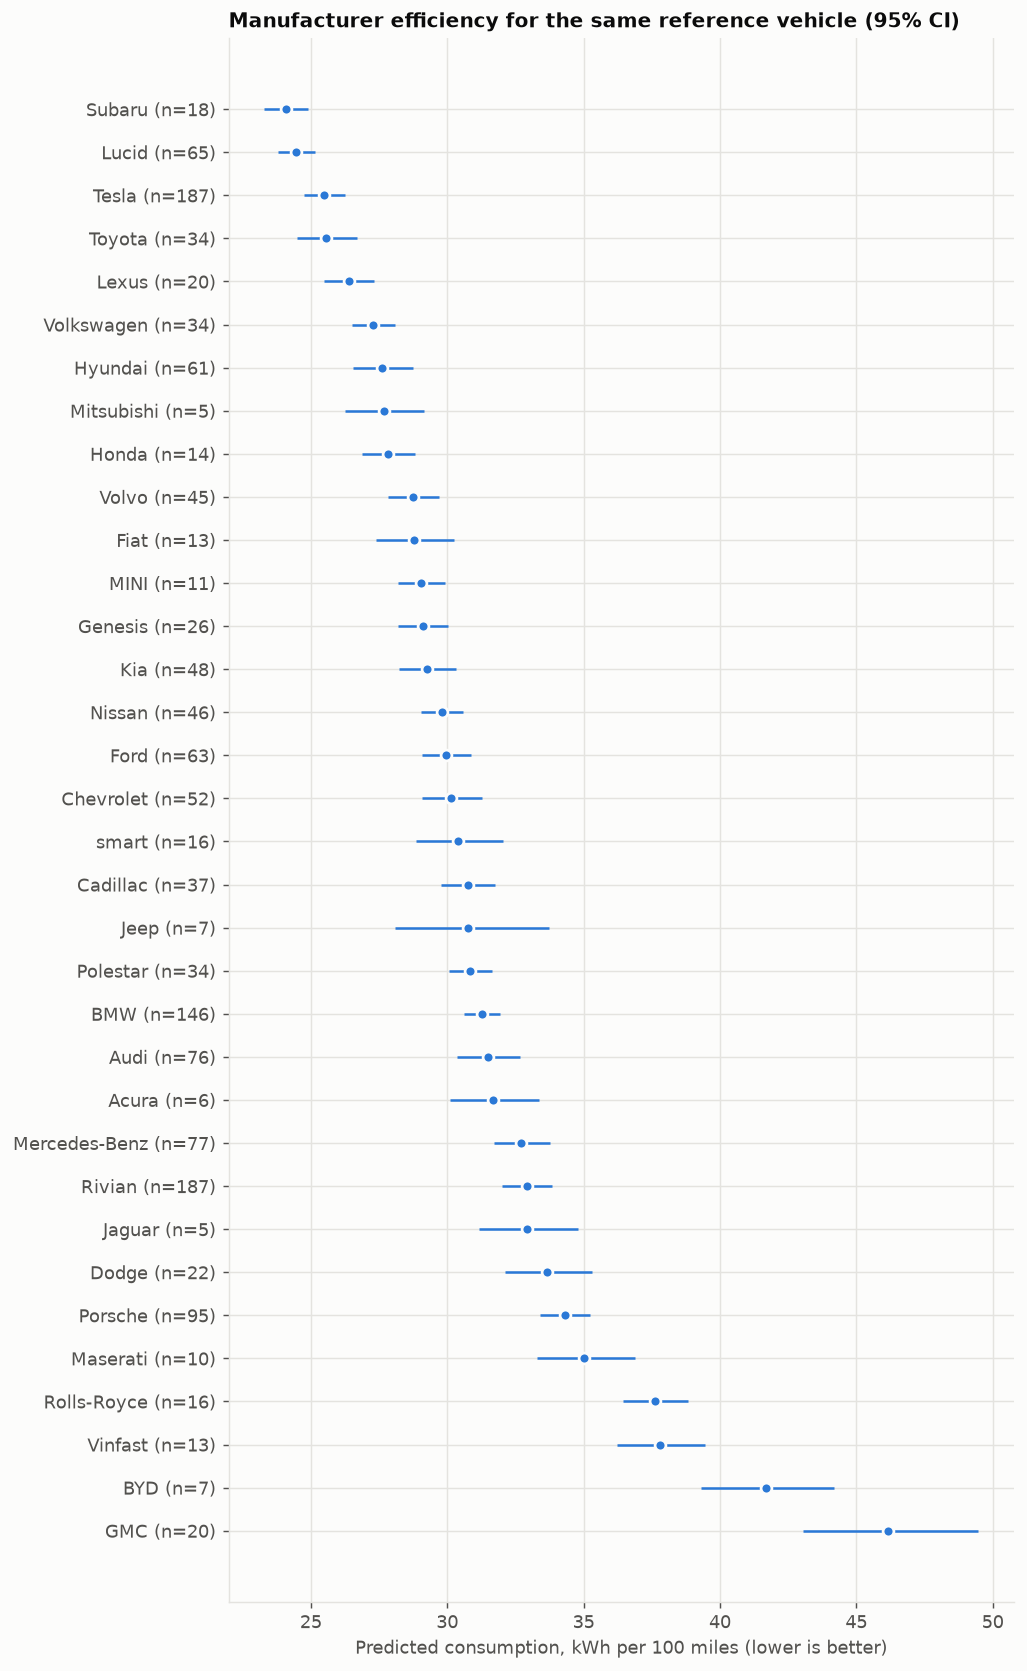
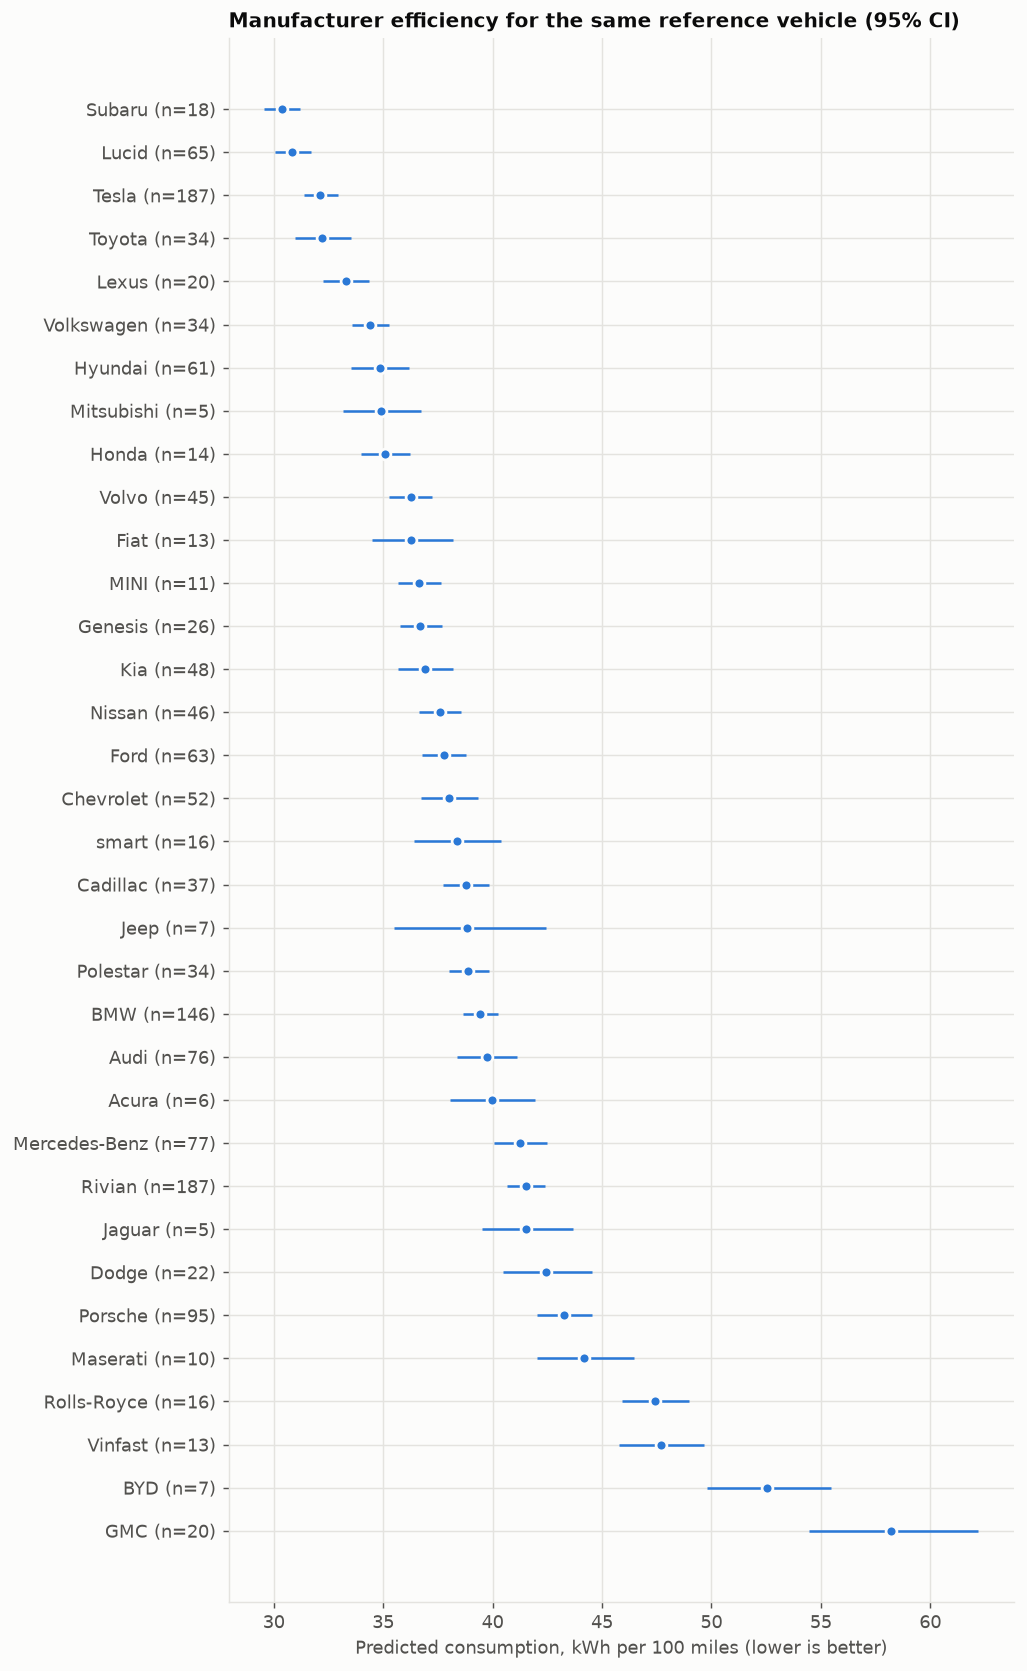
Refresh EPA data and results

diff --git a/docs/results.md b/docs/results.md
@@ -6,7 +6,7 @@ Data: 1,585 battery-electric vehicle configurations from 42 manufacturers, model
 2. The derived energy per charge passes a sanity check. For the 56 configurations whose battery size EPA lists, the stated capacity is a median 0.89 times the energy drawn from the wall, consistent with charging losses of about 11%.
 3. The share of SUVs and pickups among EV configurations went from 14% to 69%. In the regression below an SUV uses 6% more energy per mile than a car of the same model year and motor power, so the shift towards SUVs pushes average consumption up.
 4. EVs reverse the usual city/highway pattern. The median EV's highway efficiency is 0.89 times its city efficiency, against 1.37 for gasoline cars. 99.6% of gasoline cars but only 15% of EVs are more efficient on the highway.
-5. For the same reference vehicle (two-wheel-drive car, median motor power, model year 2027), predicted consumption ranges from 24.1 kWh/100 mi (Subaru) to 46.1 kWh/100 mi (GMC).
+5. For the same reference vehicle (two-wheel-drive car, median motor power, model year 2027), predicted consumption ranges from 30.4 kWh/100 mi (Subaru) to 58.2 kWh/100 mi (GMC).
 6. On model lines the models had never seen, Gradient boosting had the lowest error (MAE 3.32 kWh/100 mi, 9.1% of the true value), 37% below the class-median baseline.
 
 #### Explanatory regression: log consumption (HC3 robust standard errors)
@@ -74,40 +74,40 @@ n = 1530, R² = 0.34
 
 | make          |   consumption |   ci_low |   ci_high |   n |
 |:--------------|--------------:|---------:|----------:|----:|
-| Subaru        |         24.08 |    23.29 |     24.89 |  18 |
-| Lucid         |         24.46 |    23.81 |     25.14 |  65 |
-| Tesla         |         25.48 |    24.74 |     26.24 | 187 |
-| Toyota        |         25.55 |    24.48 |     26.67 |  34 |
-| Lexus         |         26.39 |    25.48 |     27.33 |  20 |
-| Volkswagen    |         27.29 |    26.51 |     28.08 |  34 |
-| Hyundai       |         27.62 |    26.55 |     28.74 |  61 |
-| Mitsubishi    |         27.67 |    26.27 |     29.15 |   5 |
-| Honda         |         27.83 |    26.86 |     28.83 |  14 |
-| Volvo         |         28.74 |    27.83 |     29.68 |  45 |
-| Fiat          |         28.77 |    27.38 |     30.24 |  13 |
-| MINI          |         29.05 |    28.21 |     29.92 |  11 |
-| Genesis       |         29.1  |    28.19 |     30.04 |  26 |
-| Kia           |         29.27 |    28.24 |     30.33 |  48 |
-| Nissan        |         29.8  |    29.04 |     30.59 |  46 |
-| Ford          |         29.95 |    29.06 |     30.87 |  63 |
-| Chevrolet     |         30.15 |    29.08 |     31.26 |  52 |
-| smart         |         30.41 |    28.87 |     32.03 |  16 |
-| Cadillac      |         30.75 |    29.79 |     31.75 |  37 |
-| Jeep          |         30.77 |    28.07 |     33.74 |   7 |
-| Polestar      |         30.84 |    30.05 |     31.64 |  34 |
-| BMW           |         31.27 |    30.61 |     31.94 | 146 |
-| Audi          |         31.5  |    30.37 |     32.67 |  76 |
-| Acura         |         31.68 |    30.09 |     33.35 |   6 |
-| Mercedes-Benz |         32.72 |    31.7  |     33.76 |  77 |
-| Rivian        |         32.91 |    32    |     33.86 | 187 |
-| Jaguar        |         32.94 |    31.18 |     34.8  |   5 |
-| Dodge         |         33.67 |    32.11 |     35.3  |  22 |
-| Porsche       |         34.31 |    33.4  |     35.25 |  95 |
-| Maserati      |         35.03 |    33.28 |     36.88 |  10 |
-| Rolls-Royce   |         37.61 |    36.44 |     38.81 |  16 |
-| Vinfast       |         37.8  |    36.23 |     39.44 |  13 |
-| BYD           |         41.67 |    39.32 |     44.17 |   7 |
-| GMC           |         46.15 |    43.05 |     49.47 |  20 |
+| Subaru        |         30.36 |    29.57 |     31.18 |  18 |
+| Lucid         |         30.85 |    30.04 |     31.69 |  65 |
+| Tesla         |         32.13 |    31.36 |     32.92 | 187 |
+| Toyota        |         32.23 |    30.95 |     33.55 |  34 |
+| Lexus         |         33.28 |    32.25 |     34.35 |  20 |
+| Volkswagen    |         34.41 |    33.58 |     35.27 |  34 |
+| Hyundai       |         34.84 |    33.55 |     36.17 |  61 |
+| Mitsubishi    |         34.9  |    33.16 |     36.73 |   5 |
+| Honda         |         35.09 |    34    |     36.23 |  14 |
+| Volvo         |         36.25 |    35.29 |     37.24 |  45 |
+| Fiat          |         36.29 |    34.5  |     38.17 |  13 |
+| MINI          |         36.64 |    35.67 |     37.63 |  11 |
+| Genesis       |         36.7  |    35.76 |     37.67 |  26 |
+| Kia           |         36.91 |    35.69 |     38.17 |  48 |
+| Nissan        |         37.59 |    36.63 |     38.57 |  46 |
+| Ford          |         37.77 |    36.79 |     38.78 |  63 |
+| Chevrolet     |         38.03 |    36.75 |     39.35 |  52 |
+| smart         |         38.35 |    36.42 |     40.38 |  16 |
+| Cadillac      |         38.78 |    37.75 |     39.84 |  37 |
+| Jeep          |         38.81 |    35.48 |     42.44 |   7 |
+| Polestar      |         38.89 |    37.99 |     39.82 |  34 |
+| BMW           |         39.43 |    38.65 |     40.23 | 146 |
+| Audi          |         39.72 |    38.39 |     41.1  |  76 |
+| Acura         |         39.95 |    38.07 |     41.93 |   6 |
+| Mercedes-Benz |         41.26 |    40.05 |     42.51 |  77 |
+| Rivian        |         41.51 |    40.66 |     42.38 | 187 |
+| Jaguar        |         41.54 |    39.53 |     43.66 |   5 |
+| Dodge         |         42.46 |    40.48 |     44.53 |  22 |
+| Porsche       |         43.27 |    42.04 |     44.54 |  95 |
+| Maserati      |         44.18 |    42.03 |     46.44 |  10 |
+| Rolls-Royce   |         47.43 |    45.93 |     48.98 |  16 |
+| Vinfast       |         47.68 |    45.76 |     49.67 |  13 |
+| BYD           |         52.56 |    49.78 |     55.48 |   7 |
+| GMC           |         58.2  |    54.46 |     62.19 |  20 |
 
 ## Permutation importance
 

diff --git a/README.md b/README.md
@@ -22,7 +22,7 @@ Data: 1,585 battery-electric vehicle configurations from 42 manufacturers, model
 2. The derived energy per charge passes a sanity check. For the 56 configurations whose battery size EPA lists, the stated capacity is a median 0.89 times the energy drawn from the wall, consistent with charging losses of about 11%.
 3. The share of SUVs and pickups among EV configurations went from 14% to 69%. In the regression below an SUV uses 6% more energy per mile than a car of the same model year and motor power, so the shift towards SUVs pushes average consumption up.
 4. EVs reverse the usual city/highway pattern. The median EV's highway efficiency is 0.89 times its city efficiency, against 1.37 for gasoline cars. 99.6% of gasoline cars but only 15% of EVs are more efficient on the highway.
-5. For the same reference vehicle (two-wheel-drive car, median motor power, model year 2027), predicted consumption ranges from 24.1 kWh/100 mi (Subaru) to 46.1 kWh/100 mi (GMC).
+5. For the same reference vehicle (two-wheel-drive car, median motor power, model year 2027), predicted consumption ranges from 30.4 kWh/100 mi (Subaru) to 58.2 kWh/100 mi (GMC).
 6. On model lines the models had never seen, Gradient boosting had the lowest error (MAE 3.32 kWh/100 mi, 9.1% of the true value), 37% below the class-median baseline.
 
 #### Explanatory regression: log consumption (HC3 robust standard errors)
